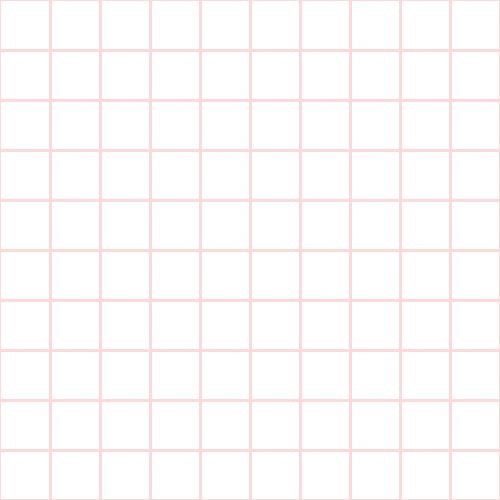
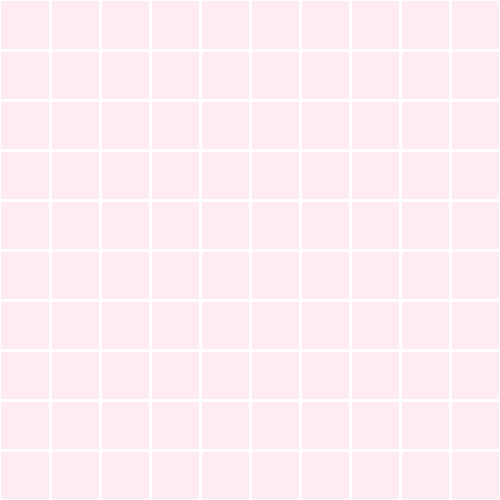
add more dark mode support

Changed region(s): [[0.0, 0.0, 1.0, 1.0], [0.0, 0.0, 0.03, 0.03]]

diff --git a/public/language/language.css b/public/language/language.css
@@ -91,6 +91,13 @@ section {
 	/*----- tooltip -----*/
 	--scrollbar: #b5b5ff;
 	--scrollbar-width: 0px;
+  
+	/*----- dark mode -----*/
+	--container-background-dark:#56104f;
+	--text-dark: rgb(231, 231, 231);
+	--border-dark:#1b070a;
+    --h3-color-dark:rgb(223, 223, 223);
+    --h3-background-dark: #518625;
   }
   
   /*----- fonts -----*/
@@ -160,7 +167,7 @@ body {
 	font-size: 1em;
 	color: var(--text);
 	background-color: var(--page-background-color);
-	background-image: url('images/bg.png');
+	background-image: url('images/bg.jpg');
 }
 
 p {
@@ -388,9 +395,6 @@ input#tabToggle04:checked ~ tab-content:not(:nth-of-type(4)) {display: none;}
 		max-height: 94dvh;
 	}
 
-	.back{
-	}
-
 	.back a{
 		/*
 		color: black;
@@ -426,5 +430,36 @@ input#tabToggle04:checked ~ tab-content:not(:nth-of-type(4)) {display: none;}
 
 	tab-container {
 		height: 80%;
+	}
+}
+
+@media (prefers-color-scheme: dark) {
+	html,
+	body {
+		color: var(--text-dark);
+		background-image: url('images/bgdark.jpg');
+	}
+
+	#container{
+		border: solid 1px var(--border-dark);
+		background-color: var(--container-background-dark);
+	}
+
+	h3,
+	.h3 {
+	  color: var(--h3-color-dark);
+	  background-color: var(--h3-background-dark);
+	}
+
+	.leftimg img{
+		opacity: 0.8;
+		-webkit-transition: all 0.3s ease-in-out;
+		-moz-transition: all 0.3s ease-in-out;
+		-o-transition: all 0.3s ease-in-out;
+		-ms-transition: all 0.3s ease-in-out;
+		transition: all 0.3s ease-in-out;
+		&:hover{
+			opacity: 1;
+		}
 	}
 }

diff --git a/public/about/about.css b/public/about/about.css
@@ -25,6 +25,10 @@
   /*----- tooltip -----*/
   --scrollbar: #b5b5ff;
   --scrollbar-width: 0px;
+
+  /*----- dark mode -----*/
+  --text-dark: #f0f0f0;
+  --window-border-dark: #777777;
 }
 
 /*----- base formatting -----*/
@@ -342,7 +346,7 @@ figure {
 .blinkies,
 .main2,
 #s-m-t-tooltip {
-    background: url('images/boxbg.png'); 
+    background: url('images/boxbg.jpg'); 
     background-color: gray;
     border-radius: 20px;
     border: 4px ridge var(--window-border);
@@ -503,4 +507,25 @@ figure {
   position: relative;
   top: -2px;
   margin-right: 10px;
+}
+
+@media (prefers-color-scheme: dark) {
+  body{
+    color: var(--text-dark);
+  }
+
+  #page{
+      background-color: var(--page-background-color-dark);
+      background-image: url(images/bgdark.gif);
+  }
+
+  .stats,
+  .links,
+  .stamps,
+  .blinkies,
+  .main2,
+  #s-m-t-tooltip {
+      background: url('images/boxbgdark.jpg'); 
+      border: 4px ridge var(--window-border-dark);
+  }
 }

diff --git a/public/main/index.html b/public/main/index.html
@@ -152,7 +152,7 @@ attribute:"title"
             <ul>
               <li>add image gallery for my favorites</li>
               <li>write about gaming history and console collection</li>
-              <li>add dark mode to <s>main</s>, about, language, and diary pages</li>
+              <li>add dark mode to <s>main, about, language</s>, and diary pages</li>
               <li>get yakuza shrine ready for public release</li>
               <li>add mobile support for about page</li>
               <li><s>add diary section</s></li>
